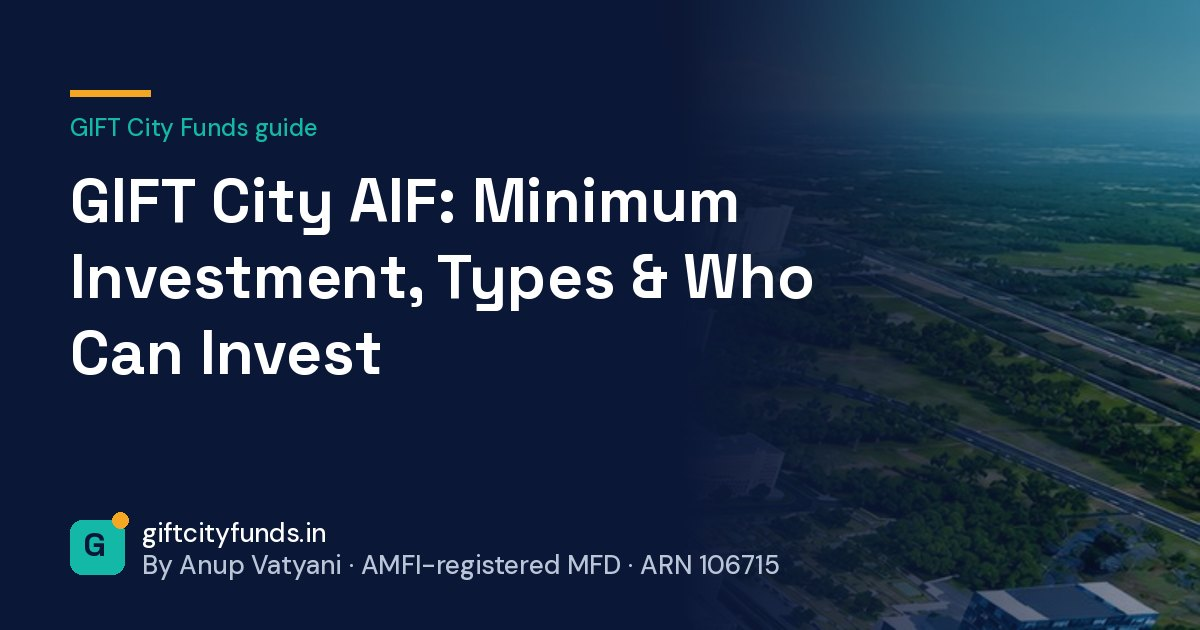
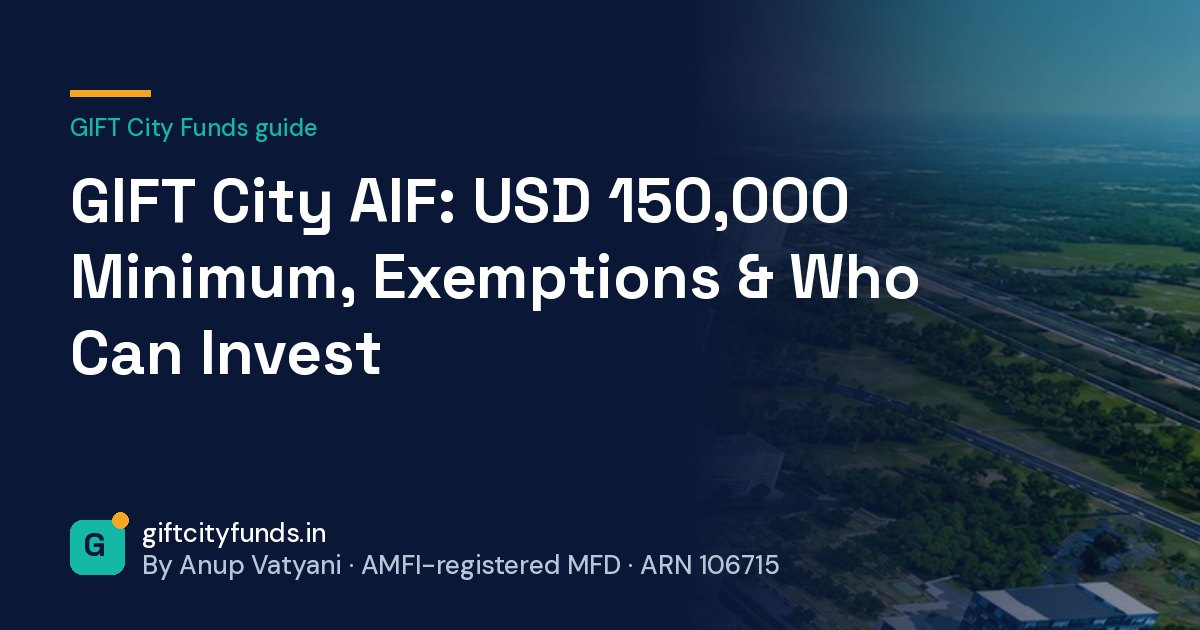
Add files via upload

Changed region(s): [[0.0617, 0.3921, 0.7708, 0.5127], [0.4008, 0.2714, 0.7092, 0.3619]]

diff --git a/src/data/news.ts b/src/data/news.ts
@@ -1,0 +1,98 @@
+// GIFT City news, newest first. To add a story: put a new entry at the TOP,
+// in our own words (2–3 factual sentences, no returns or recommendations),
+// with the original source. Then update NEWS_UPDATED and the sitemap lastmod.
+export interface NewsItem {
+  date: string; // ISO yyyy-mm-dd
+  title: string;
+  summary: string;
+  tag: "Funds" | "Regulation" | "Markets" | "Banking" | "Tax" | "Platforms" | "Insurance";
+  source: { label: string; url: string };
+  more?: [string, string]; // related guide on this site
+}
+
+export const NEWS_UPDATED = "20 October 2026";
+
+export const NEWS: NewsItem[] = [
+  {
+    date: "2026-10-18",
+    title: "NMDC and SAIL set up subsidiaries in GIFT IFSC",
+    summary: "The two public sector companies have each incorporated a subsidiary in GIFT City's IFSC: NMDC as a platform for overseas mineral projects, SAIL mainly as a group treasury centre.",
+    tag: "Markets",
+    source: { label: "Business Standard", url: "https://www.business-standard.com/markets/news/psus-tap-gift-city-for-overseas-mineral-hunt-amid-critical-supply-push-126101800834_1.html" },
+  },
+  {
+    date: "2026-10-15",
+    title: "Aditya Birla Sun Life launches two retail GIFT City funds",
+    summary: "Its IFSC subsidiary announced an outbound emerging-markets fund for resident Indians investing under LRS, and an inbound India Growth fund of funds for NRIs and foreign investors. Both have a stated minimum of USD 500.",
+    tag: "Funds",
+    source: { label: "Angel One report", url: "https://www.angelone.in/news/mutual-funds/aditya-birla-sun-life-amc-introduces-gift-city-funds-for-emerging-markets-and-indian-equities" },
+    more: ["/gift-city-fund-list", "GIFT City fund list"],
+  },
+  {
+    date: "2026-09-29",
+    title: "Groww starts rolling out US stocks through GIFT City",
+    summary: "Groww began offering US stocks and ETFs to its users through the GIFT City Global Access Provider route, with wider availability expected over the following month.",
+    tag: "Platforms",
+    source: { label: "Free Press Journal", url: "https://www.freepressjournal.in/business/groww-rolls-out-us-stock-investing-amid-ai-wave" },
+    more: ["/gift-city-funds-zerodha-groww", "Zerodha, Groww and GIFT City"],
+  },
+  {
+    date: "2026-09-02",
+    title: "GIFT City banks disburse USD 52.8 billion under RBI's FCNR(B) swap window",
+    summary: "IFSCA said 20 IFSC Banking Units had disbursed about USD 52.82 billion under RBI's special FCNR(B) swap facility by 31 August 2026, and Indian banks had listed USD 11.12 billion of bonds on IFSC exchanges from April to August.",
+    tag: "Banking",
+    source: { label: "TaxGuru (PIB release)", url: "https://taxguru.in/finance/ifsca-highlights-gift-ifsc-foreign-currency-mobilisation-exceeding-usd-52-8-billion.html" },
+    more: ["/gift-city-banks-and-business-setup", "Banks in GIFT City"],
+  },
+  {
+    date: "2026-08-10",
+    title: "The Wealth Company launches a dollar fund of funds for NRIs",
+    summary: "The Wealth Company's IFSC branch launched a US Dollar Category III AIF that invests in Indian funds. It is for NRIs and global investors; US, Canadian and resident Indian investors are not accepted.",
+    tag: "Funds",
+    source: { label: "Cafemutual", url: "https://cafemutual.com/news/cafe-alt/38470-the-wealth-company-launches-a-dollar-denominated-gift-city-fund-of-funds-for-nris" },
+    more: ["/gift-city-aif", "GIFT City AIFs"],
+  },
+  {
+    date: "2026-07-27",
+    title: "Dollar term insurance for NRIs offered through GIFT City",
+    summary: "Policybazaar began offering US Dollar term insurance from partner insurers through GIFT City, with premiums and claims in dollars and remote onboarding for NRIs.",
+    tag: "Insurance",
+    source: { label: "Business Today", url: "https://www.businesstoday.in/amp/personal-finance/investment/story/policybazaar-launches-dollar-denominated-term-insurance-for-nris-via-gift-city-545492-2026-07-27" },
+    more: ["/gift-city-insurance", "GIFT City insurance"],
+  },
+  {
+    date: "2026-07-17",
+    title: "Mauritius approves ratifying the India–Mauritius tax treaty protocol",
+    summary: "Mauritius's Cabinet approved ratification of the 2024 protocol adding a principal purpose test to the treaty. It takes effect only after both countries complete their procedures.",
+    tag: "Tax",
+    source: { label: "EY tax alert", url: "https://www.ey.com/en_in/technical/alerts-hub/2026/07/mauritian-cabinet-approves-ratification-of-protocol-to-india-mauritius-dtaa" },
+    more: ["/gift-city-vs-singapore-dubai", "GIFT City vs Mauritius"],
+  },
+  {
+    date: "2026-06-17",
+    title: "Zerodha, Groww, Upstox and Angel One get IFSCA nod for US stocks",
+    summary: "IFSCA approved Zerodha and Upstox as broker-dealers and Groww and Angel One as Global Access Providers, letting them offer US stocks through GIFT City.",
+    tag: "Platforms",
+    source: { label: "Business Today", url: "https://www.businesstoday.in/amp/markets/stocks/story/groww-zerodha-angel-one-upstox-secure-gift-city-approval-for-us-and-global-stock-investment-537332-2026-06-17" },
+    more: ["/gift-city-us-stocks-etfs", "US stocks via GIFT City"],
+  },
+  {
+    date: "2026-04-10",
+    title: "IFSCA separates fiduciary roles for GIFT City schemes",
+    summary: "A new IFSCA circular bars a scheme's fiduciary from also acting as its administrator, valuer, auditor or lender. Existing schemes must comply by 30 September 2026.",
+    tag: "Regulation",
+    source: { label: "Mondaq", url: "https://www.mondaq.com/india/fund-management-reits/1784396/ifsca-tightens-fund-management-regime-in-gift-city-accountability-certification-and-governance" },
+    more: ["/gift-city-rules-updates", "All rule changes"],
+  },
+  {
+    date: "2026-03-31",
+    title: "GIFT City bond listings reach USD 70 billion",
+    summary: "IFSCA's debt market report put cumulative debt listings on IFSC exchanges at USD 70.31 billion by 31 March 2026, with USD 49.20 billion outstanding.",
+    tag: "Markets",
+    source: { label: "TaxGuru (IFSCA report)", url: "https://taxguru.in/finance/ifsca-reviews-fy2025-26-debt-market-growth-outlook-gift-ifsc.html" },
+    more: ["/gift-city-bonds", "GIFT City bonds"],
+  },
+];
+
+export const formatNewsDate = (iso: string) =>
+  new Date(iso + "T00:00:00Z").toLocaleDateString("en-GB", { day: "numeric", month: "long", year: "numeric", timeZone: "UTC" });

diff --git a/src/pages/GiftCityNews.tsx b/src/pages/GiftCityNews.tsx
@@ -1,0 +1,70 @@
+import { Link } from "react-router-dom";
+import { GuidePage, p, a, type Faq } from "@/components/GuidePage";
+import { NEWS, NEWS_UPDATED, formatNewsDate } from "@/data/news";
+
+const faqs: Faq[] = [
+  { q: "What is the latest news on GIFT City?", a: `The most recent items here are ${NEWS[0].title.toLowerCase()} (${formatNewsDate(NEWS[0].date)}) and ${NEWS[1].title.toLowerCase()} (${formatNewsDate(NEWS[1].date)}). This page was last updated on ${NEWS_UPDATED}.` },
+  { q: "How often is this page updated?", a: "Regularly, as GIFT City developments that matter to investors happen. Each item is dated, summarised in plain English and linked to its original source." },
+  { q: "Where do the news items come from?", a: "Regulators' releases and established financial publications. Every item links to the source; read it for the full details." },
+];
+
+const TAG_STYLE: Record<string, string> = {
+  Funds: "bg-teal/15 text-primary",
+  Regulation: "bg-brass/20 text-primary",
+  Markets: "bg-surface text-primary border border-border",
+  Banking: "bg-surface text-primary border border-border",
+  Tax: "bg-brass/20 text-primary",
+  Platforms: "bg-teal/15 text-primary",
+  Insurance: "bg-teal/15 text-primary",
+};
+
+const GiftCityNews = () => (
+  <GuidePage
+    path="/gift-city-news"
+    headline="GIFT City News: Latest Updates for Investors"
+    seoTitle="GIFT City News Today: Latest Updates for NRIs & Investors"
+    description="Latest GIFT City news for investors: new funds, IFSCA decisions, banking and market updates, each dated, in plain English and linked to its source."
+    crumb="GIFT City News"
+    datePublished="2026-10-20"
+    reviewed={`Updated ${NEWS_UPDATED}`}
+    faqs={faqs}
+    sources={["ifsca", "ifscaDirectory"]}
+    extraSchema={[
+      {
+        "@context": "https://schema.org",
+        "@type": "ItemList",
+        name: "GIFT City news for investors",
+        itemListOrder: "https://schema.org/ItemListOrderDescending",
+        itemListElement: NEWS.map((n, i) => ({ "@type": "ListItem", position: i + 1, name: n.title, url: n.source.url })),
+      },
+    ]}
+  >
+    <p className={p}>
+      <strong className="text-primary">The short version.</strong> The GIFT City developments that matter to NRIs and Indian investors, newest first. Each is summarised in plain English and linked to its original source. For changes to the rules themselves, see <Link to="/gift-city-rules-updates" className={a}>GIFT City rule changes</Link>.
+    </p>
+
+    <ol className="mt-8 space-y-4 list-none p-0">
+      {NEWS.map((n) => (
+        <li key={n.date + n.title}>
+          <article className="rounded-xl border border-border bg-surface p-5 md:p-6">
+            <div className="flex flex-wrap items-center gap-3 font-body text-sm">
+              <time dateTime={n.date} className="font-semibold text-primary">{formatNewsDate(n.date)}</time>
+              <span className={`rounded-full px-2.5 py-0.5 text-xs font-semibold ${TAG_STYLE[n.tag]}`}>{n.tag}</span>
+            </div>
+            <h2 className="mt-2 font-heading font-semibold text-xl text-primary">{n.title}</h2>
+            <p className="mt-2 font-body text-foreground-muted leading-relaxed">{n.summary}</p>
+            <p className="mt-3 font-body text-sm flex flex-wrap gap-x-5 gap-y-1">
+              <a href={n.source.url} target="_blank" rel="noopener noreferrer" className={a}>Source: {n.source.label}</a>
+              {n.more && <Link to={n.more[0]} className={a}>Guide: {n.more[1]}</Link>}
+            </p>
+          </article>
+        </li>
+      ))}
+    </ol>
+    <p className="font-body text-xs text-foreground-muted mt-6">
+      News summaries for information only. Mention of a fund, company or platform is not a recommendation. Read the original source and the scheme documents.
+    </p>
+  </GuidePage>
+);
+
+export default GiftCityNews;

diff --git a/src/pages/Insights.tsx b/src/pages/Insights.tsx
@@ -10,6 +10,7 @@ import { toast } from "sonner";
 import { articles, getArticle } from "./insights/articles";
 import { formatDate } from "@/lib/formatDate";
 import { trackEvent } from "@/lib/analytics";
+import { NEWS, formatNewsDate } from "@/data/news";
 
 // The Insights hub groups every guide, tool and article into four topics.
 const CLUSTERS: { id: string; title: string; blurb: string; icon: typeof Users; accent: string; badge: string; links: [string, string, string?][] }[] = [
@@ -57,6 +58,7 @@ const CLUSTERS: { id: string; title: string; blurb: string; icon: typeof Users; 
       ["/what-is-ifsca", "What is IFSCA?", "Guide"],
       ["/insights/ifsca-vs-sebi", "IFSCA vs SEBI", "Article"],
       ["/what-is-gift-city", "What is GIFT City and IFSC?", "Guide"],
+      ["/gift-city-news", "Latest GIFT City news", "Guide"],
       ["/gift-city-rules-updates", "GIFT City rule changes, dated", "Guide"],
       ["/gift-city-vs-singapore-dubai", "GIFT City vs Singapore, Dubai and Mauritius", "Guide"],
       ["/gift-city-glossary", "Glossary", "Guide"],
@@ -159,6 +161,21 @@ const Insights = () => {
       <Breadcrumbs items={[{ name: "Home", url: "/" }, { name: "Insights", url: "/insights" }]} />
       <h1 className="font-heading font-bold text-3xl md:text-4xl text-primary mt-6 mb-4">Insights on GIFT City & IFSC Investing</h1>
       <p className="font-body text-lg text-foreground-muted mb-8">Plain-English writing on the mechanics, regulation and tax treatment of GIFT City funds — for NRIs, OCIs and Resident Indians, updated as rules evolve.</p>
+
+      <section aria-labelledby="latest-news" className="mb-8 rounded-2xl border border-border bg-background p-5">
+        <div className="flex flex-wrap items-baseline justify-between gap-3 mb-3">
+          <h2 id="latest-news" className="font-heading font-semibold text-xl text-primary">Latest GIFT City news</h2>
+          <Link to="/gift-city-news" className="font-body text-sm font-semibold text-secondary hover:underline">All news →</Link>
+        </div>
+        <ul className="divide-y divide-border list-none p-0 m-0">
+          {NEWS.slice(0, 3).map((n) => (
+            <li key={n.date + n.title} className="py-2.5 flex flex-col sm:flex-row sm:items-baseline gap-1 sm:gap-4">
+              <time dateTime={n.date} className="shrink-0 font-body text-sm font-semibold text-secondary sm:w-36">{formatNewsDate(n.date)}</time>
+              <Link to="/gift-city-news" className="font-body text-primary hover:underline">{n.title}</Link>
+            </li>
+          ))}
+        </ul>
+      </section>
 
       <div className="bg-surface border border-border p-6 rounded-lg mb-12">
         <h2 className="font-heading font-semibold text-primary mb-2">Get new GIFT City articles by email</h2>

diff --git a/src/pages/FundList.tsx b/src/pages/FundList.tsx
@@ -15,7 +15,7 @@ interface House {
 // a ranking. Review monthly; update LAST_CHECKED when you do.
 const LAST_CHECKED = "October 2026";
 const HOUSES: House[] = [
-  { name: "Aditya Birla Sun Life AMC", entity: "GIFT City unit set up through a wholly owned IFSC subsidiary", focus: "See the fund house for current schemes", direction: "Varies", source: { label: "Business Standard report", url: "https://www.business-standard.com/article/news-cm/abslamc-to-set-up-new-unit-at-gift-city-122112900858_1.html" } },
+  { name: "Aditya Birla Sun Life AMC", entity: "Aditya Birla Sun Life AMC International (IFSC)", focus: "ABSL Emerging Market Equity Fund (outbound, for residents under LRS); ABSL India Growth Fund (inbound fund of funds, for NRIs)", direction: "Both", source: { label: "Angel One report", url: "https://www.angelone.in/news/mutual-funds/aditya-birla-sun-life-amc-introduces-gift-city-funds-for-emerging-markets-and-indian-equities" } },
   { name: "Bandhan AMC", entity: "GIFT City operations launched in 2025", focus: "Three India-focused funds at launch", direction: "Inbound", source: { label: "Bandhan AMC announcement", url: "https://www.bandhanamc.com/amcaccess/sites/default/files/2025-05/Bandhan%20AMC%20Commences%20GIFT%20City%20Operations%20with%20the%20Launch%20of%20Three%20India%20Focused%20Funds.pdf" } },
   { name: "DSP", entity: "DSP Fund Managers IFSC Pvt. Ltd., Registered FME (Retail)", focus: "India funds and a global equity fund", direction: "Both", source: { label: "giftcity.dspim.com", url: "https://giftcity.dspim.com/" } },
   { name: "Edelweiss AMC", entity: "GIFT City branch opened in 2025", focus: "Edelweiss India Multimanager Equity Fund – Series I (fund of Indian equity funds); a Greater China equity fund", direction: "Both", source: { label: "edelweissmf.com/gift-city", url: "https://www.edelweissmf.com/gift-city" } },
@@ -48,7 +48,7 @@ const FundList = () => (
     description="GIFT City AMC and mutual fund list: 12 fund houses with GIFT City funds, inbound and outbound, each with a source. How to check any manager with IFSCA."
     crumb="GIFT City Fund List"
     datePublished="2026-10-08"
-    dateModified="2026-10-16"
+    dateModified="2026-10-20"
     reviewed={`Last checked ${LAST_CHECKED}`}
     faqs={faqs}
     sources={["ifscaDirectory", "ifsca", "amfi"]}

diff --git a/src/components/LatestNews.tsx b/src/components/LatestNews.tsx
@@ -1,0 +1,31 @@
+import { Link } from "react-router-dom";
+import { ArrowRight } from "lucide-react";
+import { NEWS, formatNewsDate } from "@/data/news";
+
+// Home page strip: the three newest GIFT City news items.
+const LatestNews = () => (
+  <section className="py-16 bg-background" aria-labelledby="news-h">
+    <div className="max-w-6xl mx-auto px-4 sm:px-6 lg:px-8">
+      <div className="flex flex-wrap items-end justify-between gap-4 mb-8">
+        <h2 id="news-h" className="font-heading font-bold text-3xl md:text-4xl text-primary">Latest GIFT City news</h2>
+        <Link to="/gift-city-news" className="font-body font-semibold text-secondary hover:underline inline-flex items-center">
+          All news <ArrowRight className="ml-1 h-4 w-4" aria-hidden />
+        </Link>
+      </div>
+      <ul className="grid gap-5 md:grid-cols-3 list-none p-0 m-0">
+        {NEWS.slice(0, 3).map((n) => (
+          <li key={n.date + n.title} className="rounded-2xl border border-border bg-surface p-5 flex flex-col gcf-lift">
+            <time dateTime={n.date} className="font-body text-sm font-semibold text-secondary">{formatNewsDate(n.date)}</time>
+            <h3 className="mt-2 font-heading font-semibold text-lg text-primary leading-snug">{n.title}</h3>
+            <p className="mt-2 font-body text-sm text-foreground-muted leading-relaxed flex-1">{n.summary}</p>
+            <a href={n.source.url} target="_blank" rel="noopener noreferrer" className="mt-3 font-body text-sm font-medium text-secondary underline underline-offset-2">
+              Source: {n.source.label}
+            </a>
+          </li>
+        ))}
+      </ul>
+    </div>
+  </section>
+);
+
+export default LatestNews;

diff --git a/src/App.tsx b/src/App.tsx
@@ -28,6 +28,7 @@ const GiftCityVsMutualFunds = lazyPage(() => import("./pages/GiftCityVsMutualFun
 const Risks = lazyPage(() => import("./pages/Risks"));
 const FundList = lazyPage(() => import("./pages/FundList"));
 const GiftCitySip = lazyPage(() => import("./pages/GiftCitySip"));
+const GiftCityNews = lazyPage(() => import("./pages/GiftCityNews"));
 const GiftCityReturns = lazyPage(() => import("./pages/GiftCityReturns"));
 const GiftCityApps = lazyPage(() => import("./pages/GiftCityApps"));
 const GiftCityInsurance = lazyPage(() => import("./pages/GiftCityInsurance"));
@@ -83,6 +84,7 @@ const PAGE_FOR_PATH: Record<string, LazyPage> = {
   "/gift-city-funds-for-resident-indians": ResidentGuide,
   "/gift-city-fund-list": FundList,
   "/gift-city-sip": GiftCitySip,
+  "/gift-city-news": GiftCityNews,
   "/gift-city-funds-returns": GiftCityReturns,
   "/gift-city-funds-zerodha-groww": GiftCityApps,
   "/gift-city-insurance": GiftCityInsurance,
@@ -164,6 +166,7 @@ const App = ({ ssrUrl, helmetContext }: AppProps = {}) => (
               <Route path="/gift-city-funds-nri-tax-by-country" element={<Navigate to="/gift-city-funds-for-nri" replace />} />
               <Route path="/gift-city-fund-list" element={<FundList />} />
               <Route path="/gift-city-sip" element={<GiftCitySip />} />
+              <Route path="/gift-city-news" element={<GiftCityNews />} />
               <Route path="/gift-city-funds-returns" element={<GiftCityReturns />} />
               <Route path="/gift-city-funds-zerodha-groww" element={<GiftCityApps />} />
               <Route path="/gift-city-insurance" element={<GiftCityInsurance />} />

diff --git a/src/pages/Home.tsx b/src/pages/Home.tsx
@@ -6,6 +6,7 @@ import HeroTabs from "@/components/HeroTabs";
 import { ArrowRight, Landmark, Layers, Wallet, MessageCircle, CircleDollarSign, TrendingUp, Building2, UserCog, FileText, Globe2, Home as Home2, Calculator, Route, ListChecks, BookA } from "lucide-react";
 import { PageFaqs, type PageFaq } from "@/components/PageFaqs";
 import TicketLadder from "@/components/TicketLadder";
+import LatestNews from "@/components/LatestNews";
 const PAGE_FAQS: PageFaq[] = [
   { q: "What investment opportunities are there in GIFT City?", a: "For individuals: GIFT City mutual funds and feeder funds, AIFs and PMS for larger amounts, US Dollar fixed deposits at IFSC Banking Units, US stocks and ETFs through IFSC brokers, and dollar insurance products. Each has different minimums, risks and tax." },
   { q: "What is GiftCityFunds?", a: "GiftCityFunds (giftcityfunds.in) is an educational website about GIFT City funds, written by Anup Vatyani, an AMFI-registered Mutual Fund Distributor (ARN 106715). It is not a fund house, a bank or an investment platform, and it does not give personalised advice." },
@@ -181,6 +182,8 @@ const Home = () => {
             </div>
           </div>
         </section>
+
+        <LatestNews />
 
         {/* Why Start Here */}
         <section className="py-16 bg-surface">

diff --git a/src/components/RelatedGuides.tsx b/src/components/RelatedGuides.tsx
@@ -49,6 +49,7 @@ const GUIDES: Record<string, Guide> = {
   docs: { to: "/gift-city-document-checklist", title: "Document Checklist", blurb: "Build your KYC list in 30 seconds." },
   returns: { to: "/gift-city-funds-returns", title: "Returns and Performance", blurb: "How to check and compare a GIFT City fund." },
   apps: { to: "/gift-city-funds-zerodha-groww", title: "Zerodha, Groww and GIFT City", blurb: "What the apps offer, and what they don't." },
+  news: { to: "/gift-city-news", title: "Latest GIFT City News", blurb: "Dated, sourced updates for investors." },
   checker: { to: "/gift-city-route-checker", title: "Which Route Applies to You?", blurb: "A 30-second checker for residents and NRIs." },
 };
 
@@ -89,7 +90,8 @@ const RELATED: Record<string, (keyof typeof GUIDES)[]> = {
   "/gift-city-bonds": ["markets", "etfs", "insurance"],
   "/gift-city-redemption-repatriation": ["moving", "tcs", "how"],
   "/gift-city-moving-country": ["redeem", "byCountry", "pfic"],
-  "/gift-city-rules-updates": ["minimums", "tcs", "ifsca"],
+  "/gift-city-rules-updates": ["news", "minimums", "ifsca"],
+  "/gift-city-news": ["rules", "list", "markets"],
   "/gift-city-document-checklist": ["how", "checker", "redeem"],
 };
 

diff --git a/src/pages/RulesUpdates.tsx b/src/pages/RulesUpdates.tsx
@@ -93,7 +93,7 @@ const RulesUpdates = () => (
     sources={["ifsca", "ifscaFmRegs", "rbiLrs", "sebi", "incomeTax", "ukFig"]}
   >
     <p className={p}>
-      <strong className="text-primary">The short answer.</strong> GIFT City's rules change often. This page lists the changes that matter to investors, newest first, each with what it means for you. Last reviewed {LAST_REVIEWED}.
+      <strong className="text-primary">The short answer.</strong> GIFT City's rules change often. This page lists the changes that matter to investors, newest first, each with what it means for you. For wider developments, see <Link to="/gift-city-news" className={a}>GIFT City news</Link>. Last reviewed {LAST_REVIEWED}.
     </p>
 
     <h2 className={h2}>Latest IFSCA circulars and other rule changes</h2>

diff --git a/src/components/Navigation.tsx b/src/components/Navigation.tsx
@@ -48,6 +48,7 @@ const Navigation = () => {
     { label: "Route Checker", path: "/gift-city-route-checker", ariaLabel: "Check which GIFT City investment route applies to you" },
     { label: "TCS Calculator", path: "/insights/lrs-tcs-gift-city#calculator", ariaLabel: "TCS on foreign remittance calculator" },
     { label: "Document Checklist", path: "/gift-city-document-checklist", ariaLabel: "Build your GIFT City KYC document checklist" },
+    { label: "Latest News", path: "/gift-city-news", ariaLabel: "Latest GIFT City news for investors" },
     { label: "Rule Changes", path: "/gift-city-rules-updates", ariaLabel: "Dated log of GIFT City rule changes" },
     { label: "Glossary", path: "/gift-city-glossary", ariaLabel: "GIFT City glossary of terms" },
   ];

diff --git a/src/pages/GiftCityAif.tsx b/src/pages/GiftCityAif.tsx
@@ -15,8 +15,8 @@ const GiftCityAif = () => (
   <GuidePage
     path="/gift-city-aif"
     headline="GIFT City AIF: Alternative Investment Funds in GIFT IFSC Explained"
-    seoTitle="GIFT City AIF: Minimum Investment, Types & Who Can Invest (2026)"
-    description="GIFT City AIFs: restricted and venture capital schemes, the USD 150,000 minimum, how they differ from SEBI Category I, II and III AIFs, and who can invest."
+    seoTitle="GIFT City AIF: USD 150,000 Minimum, Exemptions & Who Can Invest"
+    description="GIFT City AIF minimum investment: commonly USD 150,000, who is exempt, restricted vs venture capital schemes, and how they differ from SEBI AIFs."
     crumb="GIFT City AIF"
     datePublished="2026-10-09"
     faqs={faqs}

diff --git a/src/components/Footer.tsx b/src/components/Footer.tsx
@@ -103,6 +103,9 @@ const Footer = () => {
                 <Link to="/gift-city-document-checklist" className="text-primary-foreground/80 hover:text-primary-foreground transition-corporate">Document Checklist</Link>
               </li>
               <li>
+                <Link to="/gift-city-news" className="text-primary-foreground/80 hover:text-primary-foreground transition-corporate">GIFT City News</Link>
+              </li>
+              <li>
                 <Link to="/gift-city-rules-updates" className="text-primary-foreground/80 hover:text-primary-foreground transition-corporate">GIFT City Rule Changes</Link>
               </li>
               <li>
